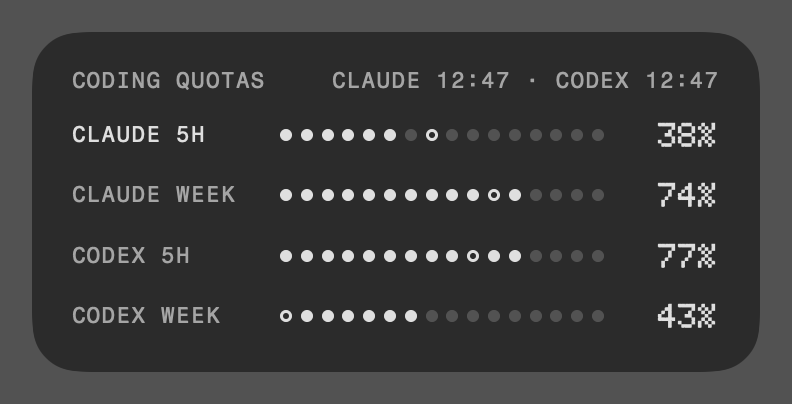
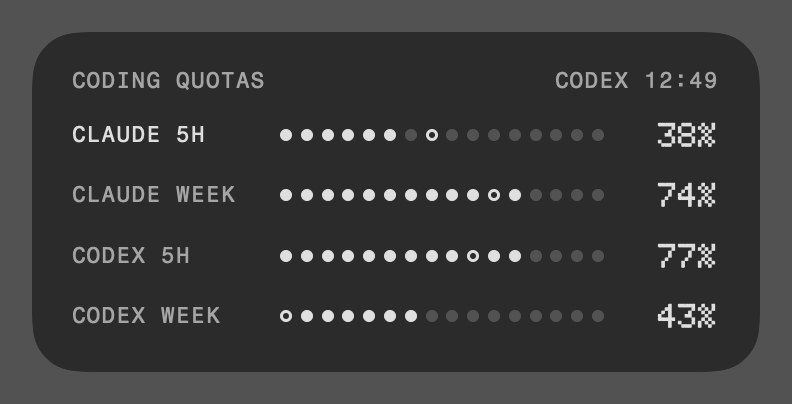
States and polish: stale data, reload budget, launch at login
Widgets flag Claude numbers older than 30 minutes as stale. The app
only reloads widget timelines when something visible changes, not on
every Claude fetch. Tinted glass goes solid with Reduce Transparency.
Launch at login through SMAppService. The as-of line shows Codex and
anything failing.

Changed region(s): [[0.3939, 0.1782, 0.6364, 0.2376], [0.8182, 0.1782, 0.9091, 0.2376], [0.697, 0.1782, 0.7879, 0.2079]]

diff --git a/HeadroomCore/Tests/HeadroomCoreTests/ProviderTests.swift b/HeadroomCore/Tests/HeadroomCoreTests/ProviderTests.swift
@@ -117,3 +117,37 @@ private func sessions(_ files: [(path: String, contents: String, age: TimeInterv
         #expect(Snapshot.read(from: URL(filePath: "/nonexistent.json")) == nil)
     }
 }
+
+@Suite struct FreshnessTests {
+    let codex = PlanSnapshot(id: .codex, windows: sampleCodex.windows, asOf: sampleNow - 6 * 3600)
+
+    @Test func claudeGoesStaleWhenTheAppStopsUpdating() {
+        var claude = sampleClaude
+        claude.asOf = sampleNow - 31 * 60
+        let s = Snapshot(claude: claude, codex: codex).flaggingStale(at: sampleNow)
+        #expect(s.claude.problem == .failed("Open Headroom to update"))
+        #expect(s.claude.windows == claude.windows)
+        // Codex data is only as fresh as the last Codex run, so old is normal.
+        #expect(s.codex.problem == nil)
+        claude.asOf = sampleNow - 10 * 60
+        #expect(Snapshot(claude: claude, codex: codex).flaggingStale(at: sampleNow).claude.problem == nil)
+    }
+
+    @Test func claudeFetchTimeAloneIsNotAWidgetChange() {
+        var a = Snapshot(claude: sampleClaude, codex: codex), b = a
+        b.claude.asOf = sampleNow + 300
+        #expect(a.forWidgets == b.forWidgets)
+        b.claude.windows[0].usedPercent += 1
+        #expect(a.forWidgets != b.forWidgets)
+        a.claude.problem = .failed("Offline")
+        #expect(a.forWidgets != Snapshot(claude: sampleClaude, codex: codex).forWidgets)
+    }
+
+    @Test func asOfShowsCodexAndAnythingFailing() {
+        var s = Snapshot(claude: sampleClaude, codex: PlanSnapshot(id: .codex, windows: sampleCodex.windows, asOf: at("2026-11-04T04:24:00Z")))
+        #expect(asOfLine(s, timeZone: utc) == "Codex 04:24")
+        s.claude.problem = .failed("Offline")
+        #expect(asOfLine(s, timeZone: utc) == "Claude 09:41 · Codex 04:24")
+        #expect(asOfLine(Snapshot(claude: PlanSnapshot(id: .claude), codex: PlanSnapshot(id: .codex)), timeZone: utc) == "")
+    }
+}

diff --git a/App/SettingsView.swift b/App/SettingsView.swift
@@ -1,4 +1,5 @@
 import HeadroomCore
+import ServiceManagement
 import SwiftUI
 import WidgetKit
 
@@ -8,9 +9,19 @@ struct SettingsView: View {
     @AppStorage(DesktopKeys.show) private var desktopPanel = false
     @AppStorage(DesktopKeys.layout) private var layout = DesktopLayout.large
     @AppStorage(DesktopKeys.locked) private var locked = false
+    @State private var launchAtLogin = SMAppService.mainApp.status == .enabled
 
     var body: some View {
         Form {
+            Toggle("Launch at login", isOn: $launchAtLogin)
+                .onChange(of: launchAtLogin) { _, on in
+                    do {
+                        if on { try SMAppService.mainApp.register() } else { try SMAppService.mainApp.unregister() }
+                    } catch {
+                        NSLog("Headroom: launch at login: \(error.localizedDescription)")
+                        launchAtLogin = SMAppService.mainApp.status == .enabled
+                    }
+                }
             Toggle("Show text next to the menu bar icon", isOn: $showText)
             Section {
                 Picker("Background", selection: $background) {

diff --git a/HeadroomCore/Sources/HeadroomUI/Style.swift b/HeadroomCore/Sources/HeadroomUI/Style.swift
@@ -129,16 +129,20 @@ public func spokenLabel(_ plan: PlanSnapshot, _ kind: WindowKind, now: Date) -> 
     return plan.problem.map { "\(base). \($0.message)" } ?? base
 }
 
-/// "Claude 09:41 · Codex 04:24": how old each plan's numbers are.
-public func asOfLine(_ s: Snapshot) -> String {
-    s.plans.compactMap { p in p.asOf.map { "\(p.id.short) \(clockTime($0))" } }.joined(separator: " · ")
-}
-
 /// The tinted-glass fill: a dark or light translucent layer over a blur.
 public struct TintedGlass: View {
     @Environment(\.colorScheme) private var scheme
+    @Environment(\.accessibilityReduceTransparency) private var solid
     public init() {}
     public var body: some View {
+        if solid {
+            scheme == .dark ? Color(white: 0.11) : Color(white: 0.95)
+        } else {
+            glass
+        }
+    }
+
+    private var glass: some View {
         ZStack {
             Rectangle().fill(.ultraThinMaterial)
             scheme == .dark ? Color(red: 12 / 255, green: 12 / 255, blue: 12 / 255).opacity(0.46) : Color.white.opacity(0.5)

diff --git a/Widget/HeadroomWidget.swift b/Widget/HeadroomWidget.swift
@@ -53,7 +53,7 @@ struct Entry<Intent: WidgetConfigurationIntent>: TimelineEntry {
 /// Reads the snapshot the app wrote; never touches ~/.codex or the Keychain.
 struct Provider<Intent: WidgetConfigurationIntent>: AppIntentTimelineProvider {
     private var stored: Snapshot {
-        AppGroup.snapshotURL.flatMap(Snapshot.read) ?? Snapshot(
+        AppGroup.snapshotURL.flatMap(Snapshot.read)?.flaggingStale(at: .now) ?? Snapshot(
             claude: PlanSnapshot(id: .claude, problem: .notSetUp("Open Headroom")),
             codex: PlanSnapshot(id: .codex, problem: .notSetUp("Open Headroom")))
     }
@@ -63,7 +63,7 @@ struct Provider<Intent: WidgetConfigurationIntent>: AppIntentTimelineProvider {
     }
 
     func snapshot(for intent: Intent, in context: Context) async -> Entry<Intent> {
-        let s = AppGroup.snapshotURL.flatMap(Snapshot.read)
+        let s = AppGroup.snapshotURL.flatMap(Snapshot.read)?.flaggingStale(at: .now)
         return Entry(date: .now, snapshot: s ?? .sample(at: .now), intent: intent)
     }
 

diff --git a/HeadroomCore/Sources/HeadroomCore/Model.swift b/HeadroomCore/Sources/HeadroomCore/Model.swift
@@ -83,6 +83,24 @@ public struct Snapshot: Codable, Equatable, Sendable {
     public func write(to url: URL) throws {
         try JSONEncoder().encode(self).write(to: url, options: .atomic)
     }
+
+    /// What the widgets show. Claude is fetched every 5 minutes, and its fetch time alone
+    /// mustn't spend WidgetKit's reload budget.
+    public var forWidgets: Snapshot {
+        var s = self
+        s.claude.asOf = nil
+        return s
+    }
+
+    /// The app refreshes Claude every 5 minutes, so much older numbers mean it has stopped.
+    /// Codex numbers are only as fresh as the last Codex run, so they're never stale.
+    public func flaggingStale(at now: Date) -> Snapshot {
+        var s = self
+        if s.claude.problem == nil, let asOf = s.claude.asOf, now.timeIntervalSince(asOf) > 30 * 60 {
+            s.claude.problem = .failed("Open Headroom to update")
+        }
+        return s
+    }
 }
 
 /// Shared between the app and the widget extension.

diff --git a/App/Store.swift b/App/Store.swift
@@ -14,6 +14,7 @@ final class Store {
 
     @ObservationIgnored private var lastClaudeFetch = Date.distantPast
     @ObservationIgnored private var lastWritten: Data?
+    @ObservationIgnored private var lastReloaded: Snapshot?
     @ObservationIgnored private var watcher: FolderWatcher?
     private let codex = CodexReader()
     private let claude = ClaudeClient()
@@ -53,7 +54,10 @@ final class Store {
         do {
             try data.write(to: url, options: .atomic)
             lastWritten = data
-            WidgetCenter.shared.reloadAllTimelines()
+            if snapshot.forWidgets != lastReloaded {
+                lastReloaded = snapshot.forWidgets
+                WidgetCenter.shared.reloadAllTimelines()
+            }
         } catch {
             NSLog("Headroom: couldn't write the widget snapshot: \(error.localizedDescription)")
         }

diff --git a/HeadroomCore/Sources/HeadroomCore/Verdict.swift b/HeadroomCore/Sources/HeadroomCore/Verdict.swift
@@ -129,6 +129,14 @@ public func menuBarSummary(_ s: Snapshot, at now: Date, timeZone tz: TimeZone = 
     return MenuBarSummary(text: percent(tightest), spoken: "Coding quotas: tightest limit \(Int(tightest.rounded())) percent left")
 }
 
+/// "Codex 04:24": how old the numbers are, for Codex (only as fresh as its last run) and for
+/// any plan that couldn't update. Live Claude numbers need no timestamp.
+public func asOfLine(_ s: Snapshot, timeZone tz: TimeZone = .current) -> String {
+    s.plans.filter { $0.id == .codex || $0.problem != nil }
+        .compactMap { p in p.asOf.map { "\(p.id.short) \(clockTime($0, tz))" } }
+        .joined(separator: " · ")
+}
+
 public func percent(_ x: Double) -> String { "\(Int(x.rounded()))%" }
 
 /// 24-hour "HH:mm", as in the mockups.

diff --git a/HeadroomCore/Sources/HeadroomUI/WidgetViews.swift b/HeadroomCore/Sources/HeadroomUI/WidgetViews.swift
@@ -179,8 +179,8 @@ public struct LargeView: View {
             HStack {
                 HStack(spacing: 8) {
                     Text(kind.label).lbl()
-                    if let w, plan.problem == nil { NoteView(note(for: w, at: now)) }
-                    else if let problem = plan.problem { Text(problem.message).lbl().secondary() }
+                    if let problem = plan.problem, kind == .fiveHour { Text(problem.message).lbl().secondary() }
+                    else if let w { NoteView(note(for: w, at: now)) }
                 }
                 Spacer(minLength: 0)
                 Text(pace.map { percent($0.left) } ?? "--").num(20)

diff --git a/HeadroomCore/Tests/HeadroomUITests/RenderTests.swift b/HeadroomCore/Tests/HeadroomUITests/RenderTests.swift
@@ -58,5 +58,8 @@ import Testing
         #expect(render("state-expiring", SmallView(plan: expiring, now: now), width: 170, height: 170) != nil)
         let missing = Snapshot(claude: s.claude, codex: PlanSnapshot(id: .codex, problem: .notSetUp("Run Codex once to see its limits")))
         #expect(render("large-missing", LargeView(snapshot: missing, now: now), width: 364, height: 382) != nil)
+        var stale = s
+        stale.claude.asOf = now - 3600
+        #expect(render("large-stale", LargeView(snapshot: stale.flaggingStale(at: now), now: now), width: 364, height: 382, dark: false) != nil)
     }
 }
